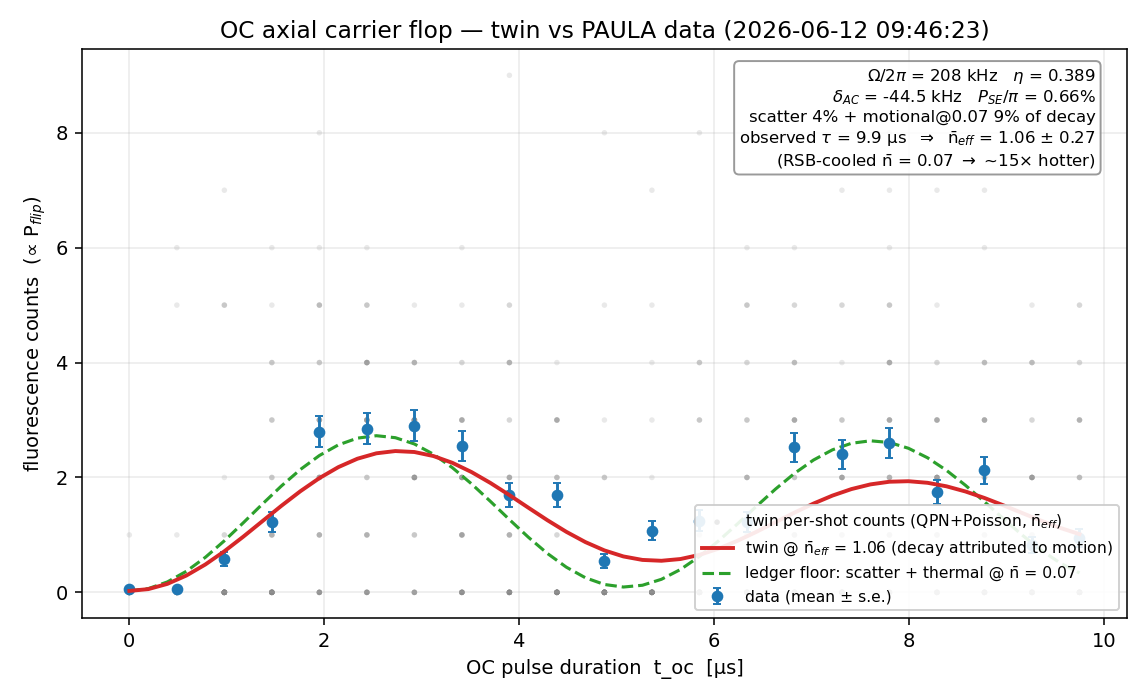
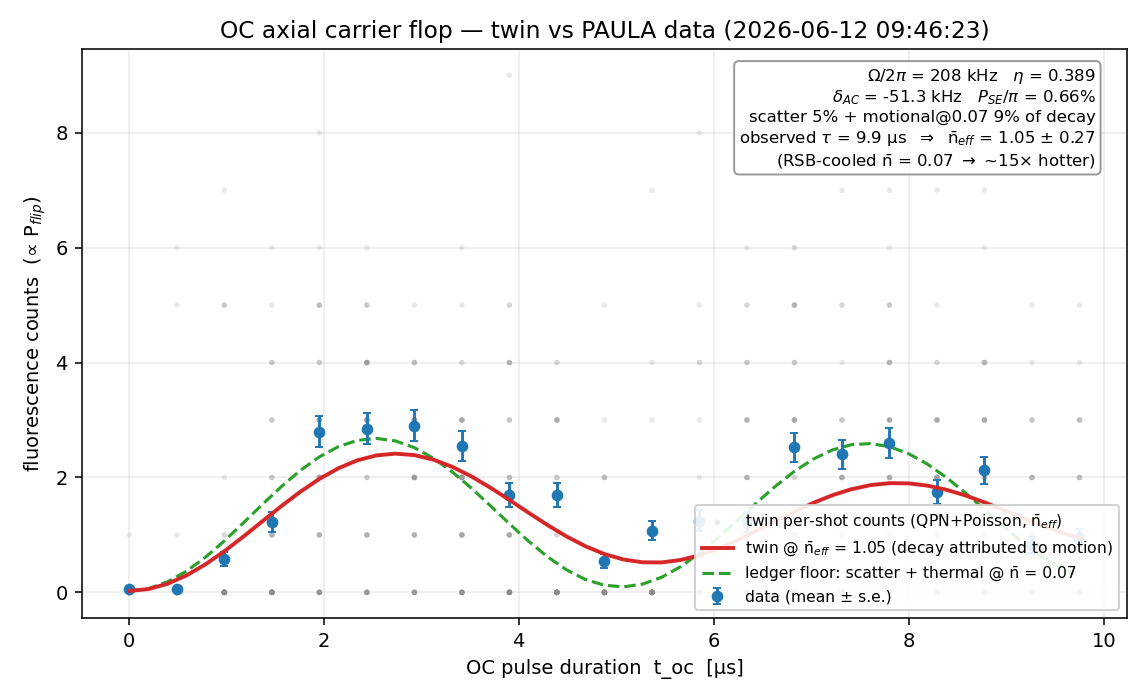
fix(records): UW apparatus corrections — Raman detuning sign + B1/R2 waists/powers (3:1 imbalance)
UW (2026-06-22): the Raman detuning is NEGATIVE 20 GHz from S1/2->P3/2; B1 = 50 um /
1 mW; R2 = 50 um / 3 mW.

- raman_detuning_from_p32: 20.0e9 -> -2.0e10 (SIGNED red, Delta = w_laser - w_0 < 0).
  scatter.py made sign-safe: rates (Gamma_sc, P_SE/pi, two-photon Rabi) use |Delta_R|;
  the differential AC-Stark SIGN follows the detuning (now negative/red, matching
  raman_optical which already stored -abs). Two scatter test assertions updated.

- 4 new input records (UW-provided, source paula_oc_axial_2026): raman_{b1,r2}_waist =
  50 um, raman_b1_power = 1 mW, raman_r2_power = 3 mW. The .dat DAC pwr_b1=pwr_r2=0.425
  is UNCALIBRATED -- the real intensity ratio is R2/B1 = 3:1 (same waist, 3x power).

- Twin uses the real 3:1 imbalance (I = 2P/(pi w^2)): delta_AC -44.5 -> -51.3 kHz,
  Gamma_sc 4.45e3 -> 5.14e3 /s (imbalance factor 1.155), ledger floor 13% -> 14%. The
  Raman-dephasing conclusion is unchanged (sideband still says nbar=0.27 cold, carrier
  loss ~63% Raman dephasing). Figures regenerated.

Records 83 -> 87; tests 254 (green); validator green.

diff --git a/spike/twin_oc_flop.py b/spike/twin_oc_flop.py
@@ -212,7 +212,14 @@ def build(path=_DATAFILE, n_boot=0, seed=0):
     # dimensionless ratios are anchored to the measured Rabi (delta_AC[Hz] = ratio*rabi;
     # Gamma_sc[1/s] = ratio*2pi*rabi -- matching the scalar engine's conventions).
     optics = RamanOptics.from_ledger(ledger)
-    powers = {"b1": dat.settings.get("pwr_b1", 1.0), "r2": dat.settings.get("pwr_r2", 1.0)}
+    # per-beam INTENSITIES from the UW-provided waists + powers (the .dat pwr_b1/pwr_r2
+    # are uncalibrated DAC settings). I = 2 P / (pi w^2); only the B1:R2 ratio (3:1) enters.
+    def _intensity(b):
+        p = ledger.input_quantity("raman_%s_power_25mg" % b).value
+        w = ledger.input_quantity("raman_%s_waist_25mg" % b).value
+        return 2.0 * p / (math.pi * w * w)
+    powers = {"b1": _intensity("b1"), "r2": _intensity("r2")}
+    pwr_b1, pwr_r2 = ledger.input_quantity("raman_b1_power_25mg").value, ledger.input_quantity("raman_r2_power_25mg").value
     bB, bR = beams_from_ledger(ledger, "OC", powers=powers)
     beams = [bB, bR]
     stark_ratio = optics.differential_stark_per_rabi(beams, bB, bR)        # delta_AC = ratio*rabi
@@ -254,7 +261,7 @@ def build(path=_DATAFILE, n_boot=0, seed=0):
         "tspan_us": t[-1] if t else 0.0,
         # polarization+power-resolved vs leading-order (scalar) comparison
         "delta_ac_scalar": delta_ac_scalar, "gamma_sc_scalar": gamma_sc_scalar,
-        "pwr_b1": powers["b1"], "pwr_r2": powers["r2"],
+        "pwr_b1": pwr_b1, "pwr_r2": pwr_r2,        # optical power [W] (B1=1 mW, R2=3 mW)
         "circ_b1": optics.circular_fraction(bB), "circ_r2": optics.circular_fraction(bR),
     }
 
@@ -307,8 +314,9 @@ def report(info) -> str:
             info["rabi_hz"] / 1e3, pm("rabi_hz_err", 1e3, "%.1f"), info["t_pi_us"], info["chi2r"]),
         "",
         "AC-STARK — polarization+power resolved (raman_optical, full |J',mJ'> sum):",
-        "  OC = B1(pi, pwr %.3f, C=%+.2f) + R2(linear, pwr %.3f, C=%+.2f)" % (
-            info["pwr_b1"], info["circ_b1"], info["pwr_r2"], info["circ_r2"]),
+        "  OC = B1(pi, %.1f mW, C=%+.2f) + R2(linear, %.1f mW, C=%+.2f); intensity ratio R2/B1=%.0f" % (
+            info["pwr_b1"] * 1e3, info["circ_b1"], info["pwr_r2"] * 1e3, info["circ_r2"],
+            info["pwr_r2"] / info["pwr_b1"] if info["pwr_b1"] else 0),
         "  delta_AC = %+.1f kHz -> amplitude cap %.4f (%.2f%% loss)   "
         "[scalar omega_HF/Delta_R: %+.1f kHz]" % (
             info["delta_ac"] / 1e3, info["amp_cap"], 100.0 * (1.0 - info["amp_cap"]),

diff --git a/spike/test_scatter.py b/spike/test_scatter.py
@@ -124,15 +124,16 @@ def test_flip_probability_stark_caps_amplitude():
 def test_from_ledger_consumes_inputs_and_numbers_sane():
     ledger = Ledger.load()
     rs = RamanScatter.from_ledger(ledger)
-    assert rs.delta_r == pytest.approx(20.0e9)
+    assert abs(rs.delta_r) == pytest.approx(20.0e9)   # SIGNED red (-20 GHz); rates use |.|
+    assert rs.delta_r < 0
     assert rs.gamma == pytest.approx(41.8e6)
     # SE/pi ~ 0.66%; at 170 kHz the scattering coherence time is sub-ms (hundreds of us)
     assert rs.se_per_pi() == pytest.approx(6.57e-3, rel=2e-2)
     g_sc = rs.scatter_rate(170e3)
     assert 1.0e3 < g_sc < 5.0e3
     assert 1e-4 < 1.0 / g_sc < 1e-2            # 0.1-10 ms coherence floor
-    # differential AC-Stark ~ (1.79/20) * 170 kHz ~ 15 kHz
-    assert rs.stark_detuning(170e3) == pytest.approx(15.2e3, rel=5e-2)
+    # differential AC-Stark ~ (1.79/20) * 170 kHz ~ 15 kHz; SIGN follows the red detuning (<0)
+    assert rs.stark_detuning(170e3) == pytest.approx(-15.2e3, rel=5e-2)
 
 
 def test_from_ledger_object_flip_matches_free_functions():

diff --git a/spike/engines/scatter.py b/spike/engines/scatter.py
@@ -78,7 +78,7 @@ def two_photon_rabi(omega_b_hz: float, omega_r_hz: float, raman_detuning_hz: flo
     frequencies Omega_B/2pi, Omega_R/2pi [Hz] and the Raman detuning [Hz]."""
     if raman_detuning_hz == 0.0:
         raise ValueError("Raman detuning must be non-zero (and far-detuned)")
-    return omega_b_hz * omega_r_hz / (2.0 * raman_detuning_hz)
+    return omega_b_hz * omega_r_hz / (2.0 * abs(raman_detuning_hz))
 
 
 def scatter_rate(omega_b_hz: float, omega_r_hz: float, raman_detuning_hz: float,
@@ -118,7 +118,7 @@ def scatter_rate_from_rabi(rabi_hz: float, raman_detuning_hz: float, gamma_hz: f
     if raman_detuning_hz == 0.0:
         raise ValueError("Raman detuning must be non-zero (and far-detuned)")
     omega = 2.0 * math.pi * rabi_hz
-    return (gamma_hz / raman_detuning_hz) * omega * _imbalance_factor(balance)
+    return (gamma_hz / abs(raman_detuning_hz)) * omega * _imbalance_factor(balance)
 
 
 def se_probability_per_pi(raman_detuning_hz: float, gamma_hz: float,
@@ -129,7 +129,7 @@ def se_probability_per_pi(raman_detuning_hz: float, gamma_hz: float,
     gate's spontaneous-emission error floor (Ozeri 2007)."""
     if raman_detuning_hz == 0.0:
         raise ValueError("Raman detuning must be non-zero (and far-detuned)")
-    return math.pi * (gamma_hz / raman_detuning_hz) * _imbalance_factor(balance)
+    return math.pi * (gamma_hz / abs(raman_detuning_hz)) * _imbalance_factor(balance)
 
 
 def contrast_decay_rate(rabi_hz: float, raman_detuning_hz: float, gamma_hz: float,

diff --git a/docs/LOGBOOK.md b/docs/LOGBOOK.md
@@ -13,6 +13,34 @@ Load-bearing decisions are captured as ADRs under
 
 ---
 
+## 2026-06-22 (later 7) — UW apparatus corrections: Raman detuning sign + B1/R2 waists & powers (3:1 imbalance)
+
+UW: the Raman detuning is NEGATIVE 20 GHz from S1/2->P3/2; B1 has a 50 um waist + 1 mW;
+R2 has 50 um + 3 mW.
+
+- **Detuning sign.** `raman_detuning_from_p32` 20.0e9 -> **-2.0e10** (SIGNED: red,
+  Delta = w_laser - w_0 < 0). Made `scatter.py` sign-safe -- the rates (Gamma_sc,
+  P_SE/pi, two-photon Rabi) use |Delta_R|; the light-shift SIGN follows the detuning,
+  so the differential AC-Stark is now negative (red), consistent with raman_optical
+  (which already stored -abs). Fixed two test assertions (delta_r<0, stark<0).
+
+- **B1/R2 beam parameters (4 records, UW-provided, source paula_oc_axial_2026):**
+  raman_{b1,r2}_waist_25mg = 50 um, raman_b1_power_25mg = 1 mW, raman_r2_power_25mg =
+  3 mW. The .dat DAC (pwr_b1 = pwr_r2 = 0.425) is UNCALIBRATED and was misleading --
+  the real intensity ratio is **R2/B1 = 3:1** (same waist, 3x power), NOT balanced.
+
+- **Wired the real 3:1 imbalance into the twin** (I = 2P/(pi w^2); only the ratio
+  enters): delta_AC -44.5 -> **-51.3 kHz**, Gamma_sc 4.45e3 -> **5.14e3 /s** (the
+  imbalance factor (1+r^2)/(2r) = 1.155), ledger floor 13% -> 14%. The Raman-dephasing
+  conclusion is unchanged (still dominant; the records' ~50%-uncertainty values stand).
+  First-principles sanity: B1 s ~ 100, R2 s ~ 300 (single-beam Omega 295 / 512 MHz);
+  the bare two-photon Omega_B*Omega_R/(2 Delta_R) ~ 3.8 MHz vs the measured 208 kHz ->
+  an effective two-photon CG^2 ~ 1/18 for the |3,3>->|2,2> path (not computed exactly).
+
+Regenerated docs/APPARATUS.md (83 -> 87 records). Tests 254 (3 scatter sign-assertions updated); validator green.
+
+---
+
 ## 2026-06-22 (later 6) — Apparatus overview (docs/APPARATUS.md) + the inferred quantities recorded
 
 UW: do we have a dedicated file listing all apparatus-specific properties? -> "both"

diff --git a/docs/APPARATUS.md b/docs/APPARATUS.md
@@ -5,7 +5,7 @@
 its full provenance: source, uncertainty, conditions, caveats); this is a flat
 index of every apparatus-specific value, grouped by subsystem.
 
-83 records (79 provisional, 4 confirmed). `kind`: **input** = consumed by the engines; **benchmark** = a measured/inferred value the engines are checked against. See [STATE_OF_THE_TWIN.md](STATE_OF_THE_TWIN.md) and [SOURCES.md](SOURCES.md).
+87 records (83 provisional, 4 confirmed). `kind`: **input** = consumed by the engines; **benchmark** = a measured/inferred value the engines are checked against. See [STATE_OF_THE_TWIN.md](STATE_OF_THE_TWIN.md) and [SOURCES.md](SOURCES.md).
 
 ## Internal state (²⁵Mg⁺ hyperfine / Zeeman)
 
@@ -45,14 +45,18 @@ index of every apparatus-specific value, grouped by subsystem.
 | `raman_ac_combination_25mg` | input | [-1.41421, 0, -1.41421] | k-vector Delta_k/k (trap x,y,z) | freddy | provisional | doerr2024 |
 | `raman_axial_lamb_dicke_25mg` | input | 0.32 | dimensionless | legacy | provisional | wittemer2019 |
 | `raman_b1_polarization_25mg` | input | [0, 1, 0] | polarization intensity fractions (sigma+, pi, sigma-) along B | freddy | provisional | clos2017 |
+| `raman_b1_power_25mg` | input | 0.001 | W | freddy | provisional | paula_oc_axial_2026 |
+| `raman_b1_waist_25mg` | input | 5e-05 | m | freddy | provisional | paula_oc_axial_2026 |
 | `raman_b3_polarization_25mg` | input | [0, 1, 0] | polarization intensity fractions (sigma+, pi, sigma-) along B | freddy | provisional | doerr2024 |
 | `raman_beam_path_jitter_25mg` | benchmark | 0.0059 | m/s | freddy | provisional | paula_oc_axial_2026 |
 | `raman_cc_combination_25mg` | input | [0, 0, 0] | k-vector Delta_k/k (trap x,y,z) | freddy | provisional | doerr2024 |
-| `raman_detuning_from_p32` | input | 2e+10 | Hz | freddy | provisional | doerr2024 |
+| `raman_detuning_from_p32` | input | -2e+10 | Hz | freddy | provisional | doerr2024 |
 | `raman_mutual_linewidth_25mg` | benchmark | 21000 | Hz | freddy | provisional | paula_oc_axial_2026 |
 | `raman_oc_combination_25mg` | input | [0, 0, 1.41421] | k-vector Delta_k/k (trap x,y,z) | freddy | provisional | doerr2024 |
 | `raman_r1_polarization_25mg` | input | [0.5, 0, 0.5] | polarization intensity fractions (sigma+, pi, sigma-) along B | freddy | provisional | clos2017 |
 | `raman_r2_polarization_25mg` | input | [0.5, 0, 0.5] | polarization intensity fractions (sigma+, pi, sigma-) along B | freddy | provisional | clos2017 |
+| `raman_r2_power_25mg` | input | 0.003 | W | freddy | provisional | paula_oc_axial_2026 |
+| `raman_r2_waist_25mg` | input | 5e-05 | m | freddy | provisional | paula_oc_axial_2026 |
 | `raman_roc_combination_25mg` | input | [1.41421, 0, 0] | k-vector Delta_k/k (trap x,y,z) | freddy | provisional | doerr2024 |
 | `rd_laser_wavelength` | input | 2.804e-07 | m | legacy | provisional | clos2017 |
 | `rd_repump_detuning` | input | -2.065e+07 | Hz | legacy | provisional | clos2017 |